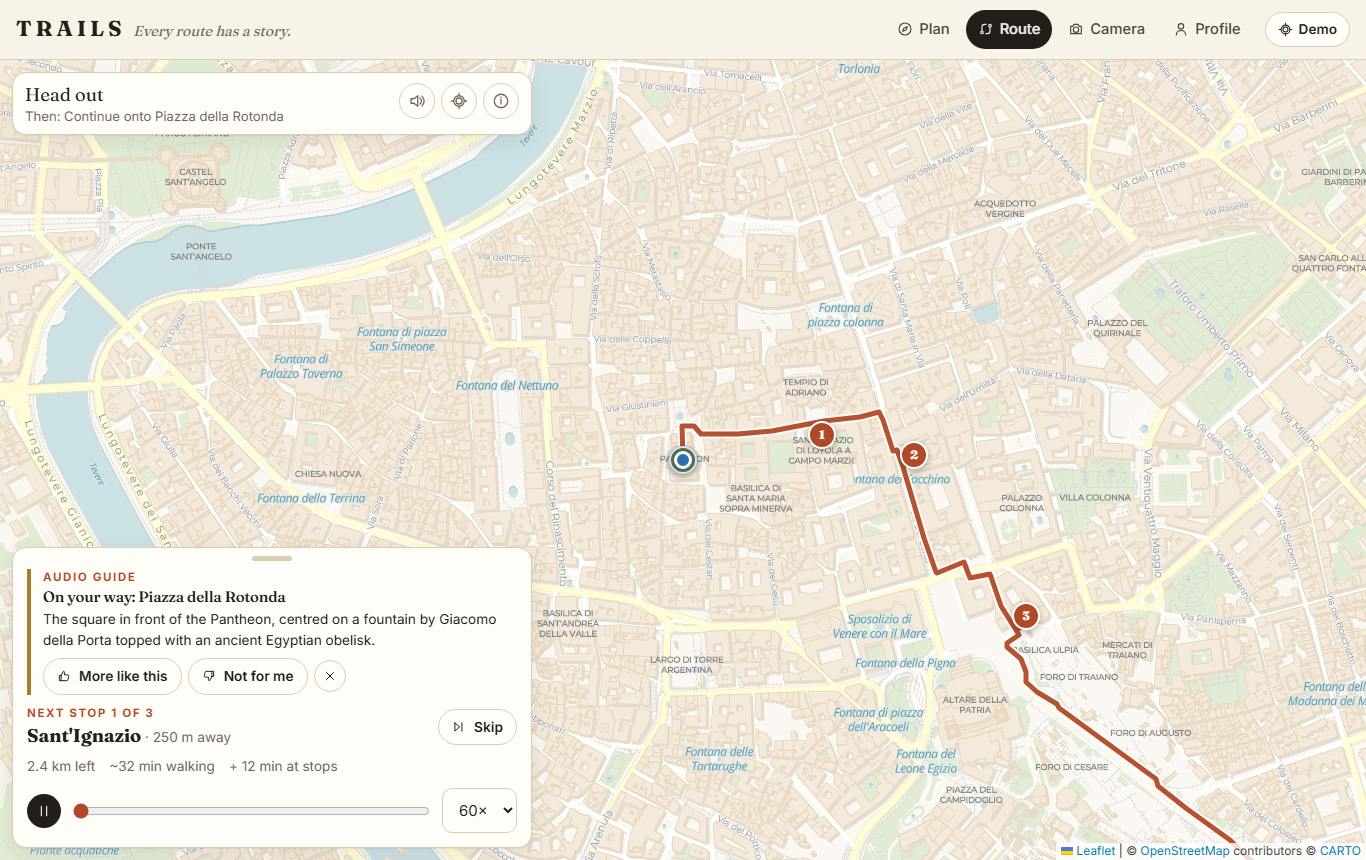
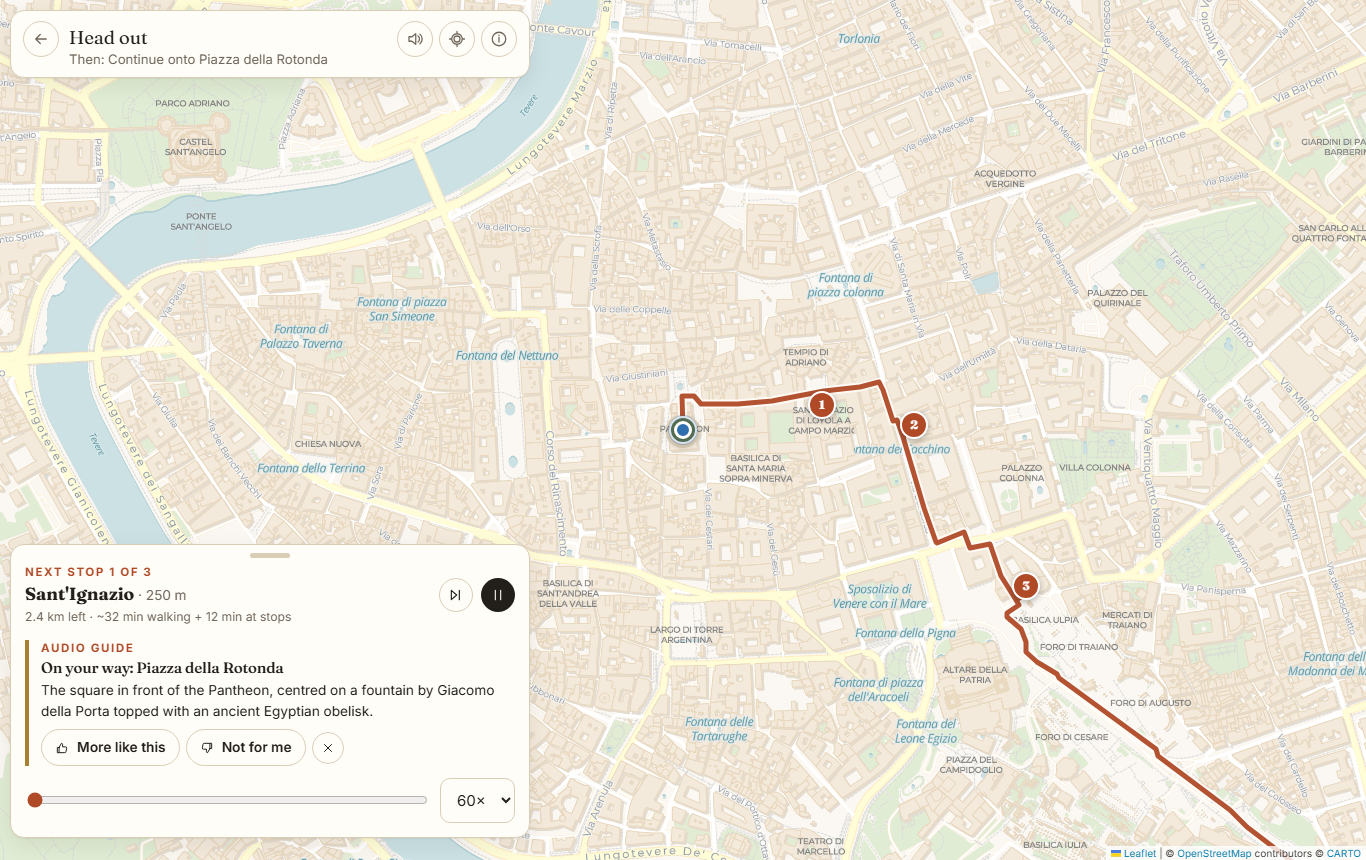
Walk screen: full-screen map and a bottom sheet that follows your finger
- the sheet now drags with the finger and snaps open or closed (distance
  or a quick flick), with an eased animation; a tap on the handle or the
  summary toggles it; play/pause and skip stay in the one-line summary
- the walk screen is full screen like a maps app: no TRAILS header and
  no tab bar, nothing scrolls; a back button returns to the route
- map attribution stays visible under the sheet
- tested in iPhone 13 and Pixel 7 viewports with emulated touch (drag
  down, drag up, tap, back); smoke test passes; screenshots refreshed

diff --git a/src/screens/Navigate.tsx b/src/screens/Navigate.tsx
@@ -1,4 +1,4 @@
-import { useEffect, useMemo, useRef, useState, type TouchEvent } from 'react'
+import { useEffect, useLayoutEffect, useMemo, useRef, useState, type PointerEvent } from 'react'
 import { Icon } from '../components/Icon'
 import { MapView } from '../components/MapView'
 import { PLACE_BY_ID } from '../lib/data'
@@ -27,10 +27,23 @@ export function Navigate() {
   const [told, setTold] = useState<ReadonlySet<string>>(new Set())
   const [cue, setCue] = useState<Cue | null>(null)
   const [rated, setRated] = useState<Record<string, 'like' | 'dislike'>>({})
-  // bottom sheet: swipe down to see the map, swipe up (or tap the handle) for details
+  // bottom sheet, like a maps app: drag it down to see the map, drag it up (or tap) for details
   const [sheetOpen, setSheetOpen] = useState(true)
   const [showInfo, setShowInfo] = useState(false)
-  const swipeY = useRef<number | null>(null)
+  const [drag, setDrag] = useState<number | null>(null)
+  const [collapseBy, setCollapseBy] = useState(0)
+  const dragStart = useRef<{ y: number; t: number } | null>(null)
+  const sheetRef = useRef<HTMLDivElement>(null)
+  const peekRef = useRef<HTMLDivElement>(null)
+  useLayoutEffect(() => {
+    const sheet = sheetRef.current, peek = peekRef.current
+    if (!sheet || !peek) return
+    const measure = () => setCollapseBy(Math.max(0, sheet.offsetHeight - (peek.offsetTop + peek.offsetHeight + 12)))
+    measure()
+    const ro = new ResizeObserver(measure)
+    ro.observe(sheet)
+    return () => ro.disconnect()
+  }, [plan])
 
   const geom = useMemo(() => plan?.route.geometry ?? [], [plan])
   const total = useMemo(() => pathLength(geom), [geom])
@@ -114,16 +127,26 @@ export function Navigate() {
   const remainingVisits = plan.stops.slice(Math.max(0, legIdx)).reduce((a, s) => a + s.visitMin, 0)
 
   const open = sheetOpen || !!atStop
-  // touch events, not pointer events: a vertical pan would cancel the pointer stream on phones
-  const onSwipeStart = (e: TouchEvent) => { swipeY.current = e.touches[0]?.clientY ?? null }
-  const onSwipeEnd = (e: TouchEvent) => {
-    const y = e.changedTouches[0]?.clientY
-    if (swipeY.current === null || y === undefined) return
-    const dy = y - swipeY.current
-    swipeY.current = null
-    const body = e.currentTarget as HTMLElement
-    if (dy > 40 && body.scrollTop <= 0) setSheetOpen(false)
-    else if (dy < -40) setSheetOpen(true)
+  // collapsed: slide the sheet down until only the handle and the one-line summary stay visible
+  const base = open ? 0 : collapseBy
+  const shift = drag === null ? base : Math.min(collapseBy, Math.max(0, base + drag))
+  const onDragStart = (e: PointerEvent) => {
+    if ((e.target as HTMLElement).closest('button:not(.nav-handle), select, input, a')) return
+    dragStart.current = { y: e.clientY, t: performance.now() }
+    e.currentTarget.setPointerCapture(e.pointerId)
+    setDrag(0)
+  }
+  const onDragMove = (e: PointerEvent) => { if (dragStart.current) setDrag(e.clientY - dragStart.current.y) }
+  const onDragEnd = (e: PointerEvent) => {
+    const s = dragStart.current
+    dragStart.current = null
+    setDrag(null)
+    if (!s) return
+    const dy = e.clientY - s.y
+    const v = dy / Math.max(1, performance.now() - s.t) // px per ms; a flick counts even if short
+    if (Math.abs(dy) < 6) setSheetOpen(!open) // a tap toggles
+    else if (dy > collapseBy / 3 || v > 0.4) setSheetOpen(false)
+    else if (dy < -collapseBy / 3 || v < -0.4) setSheetOpen(true)
   }
   const playButton = useSim && (
     <button className="btn btn-dark btn-icon" onClick={() => setPlaying(!playing)} aria-label={playing ? 'Pause simulated walk' : 'Play simulated walk'}>
@@ -132,7 +155,7 @@ export function Navigate() {
   )
 
   return (
-    <div style={{ position: 'relative', height: 'calc(100vh - var(--header-h))' }}>
+    <div className="nav-screen">
       <MapView route={{ geometry: geom, quality: plan.route.quality }}
         stops={plan.stops.map((s, i) => ({ place: s.place, n: i + 1 }))}
         start={plan.request.start} end={plan.request.end} me={pos} follow={pos}
@@ -140,6 +163,9 @@ export function Navigate() {
 
       <div className="nav-card card" role="status" aria-live="polite">
         <div className="nav-top">
+          <button className="nav-tool" aria-label="Back to the route" title="Back to the route" onClick={() => go('/route')}>
+            <Icon name="back" size={18} />
+          </button>
           <div className="nav-instr">
             {remaining < 15 ? `You have arrived at ${plan.request.end.label}.` : maneuver?.instruction ?? 'Follow the highlighted route'}
             {remaining >= 15 && nextManeuver && <div className="small muted nav-then">Then: {nextManeuver.instruction}</div>}
@@ -152,9 +178,9 @@ export function Navigate() {
                 <Icon name="sound" size={18} />
               </button>
             )}
-            <button className="nav-tool" aria-pressed={!useSim} disabled={!gpsAllowed && demo}
+            <button className="nav-tool" aria-pressed={!useSim} disabled={demo}
               aria-label={useSim ? 'Simulated location: switch to GPS' : 'GPS location: switch to simulated walk'}
-              title={useSim ? 'Simulated location (tap for GPS)' : 'GPS location (tap to simulate)'}
+              title={demo ? 'Demo mode is on: location is simulated' : useSim ? 'Simulated location (tap for GPS)' : 'GPS location (tap to simulate)'}
               onClick={() => {
                 setPlaying(false)
                 if (!gpsAllowed) { setProfile({ ...profile, locationConsent: true }); setSimOverride(false) }
@@ -181,84 +207,67 @@ export function Navigate() {
         {gpsErr && !useSim && <p className="notice notice-danger small nav-note">{gpsErr} Tap the target button to simulate the walk.</p>}
       </div>
 
-      <div className={`nav-bottom card${open ? '' : ' nav-collapsed'}`}>
-        <button className="nav-handle" aria-label={open ? 'Hide details' : 'Show details'} aria-expanded={open}
-          onTouchStart={onSwipeStart} onTouchEnd={onSwipeEnd} onClick={() => setSheetOpen(!open)}>
-          <span />
-        </button>
-        <div className="nav-sheet-body" onTouchStart={onSwipeStart} onTouchEnd={onSwipeEnd}>
-          {!open ? (
-            <div className="row spread" style={{ gap: 10 }}>
-              <div style={{ minWidth: 0 }} onClick={() => setSheetOpen(true)}>
-                <div className="nav-oneline"><strong>{nextStop ? nextStop.place.name : plan.request.end.label}</strong>
-                  {distToTarget !== null && <span className="small muted"> · {formatDistance(distToTarget)}</span>}</div>
-                <div className="tiny muted nav-oneline">{cue ? `${storyForPlan && cue.kind === 'stop' ? 'Your story' : 'Audio guide'}: ${cue.title}` : `${formatDistance(remaining)} left · ~${formatMinutes(remaining / mps / 60)}`}</div>
+      <div ref={sheetRef} className={`nav-bottom card${drag === null ? '' : ' dragging'}`} style={{ transform: `translateY(${shift}px)` }}>
+        <div className="nav-grab" onPointerDown={onDragStart} onPointerMove={onDragMove} onPointerUp={onDragEnd} onPointerCancel={onDragEnd}>
+          <button className="nav-handle" aria-label={open ? 'Hide details' : 'Show details'} aria-expanded={open}
+            onClick={(e) => { if (e.detail === 0) setSheetOpen(!open) /* keyboard; pointer taps are handled by the drag */ }}>
+            <span />
+          </button>
+          <div ref={peekRef} className="nav-peek">
+            <div style={{ minWidth: 0, flex: 1 }}>
+              <p className="eyebrow nav-oneline" style={{ margin: 0 }}>{atStop ? `You have reached stop ${legIdx + 1}` : nextStop ? `Next stop ${legIdx + 1} of ${plan.stops.length}` : 'Destination'}</p>
+              <div className="nav-oneline"><strong className="nav-stopname">{nextStop ? nextStop.place.name : plan.request.end.label}</strong>
+                {distToTarget !== null && <span className="small muted"> · {formatDistance(distToTarget)}</span>}</div>
+              <div className="tiny muted nav-oneline">
+                {!open && cue ? `${storyForPlan && cue.kind === 'stop' ? 'Your story' : 'Audio guide'}: ${cue.title}`
+                  : `${formatDistance(remaining)} left · ~${formatMinutes(remaining / mps / 60)} walking${remainingVisits > 0 ? ` + ${formatMinutes(remainingVisits)} at stops` : ''}`}
               </div>
-              {playButton}
             </div>
-          ) : (
-            <>
-              {cue && (
-                <div className="guide-card fade-in" aria-live="polite">
-                  <p className="eyebrow" style={{ margin: 0 }}>{storyForPlan && cue.kind === 'stop' ? 'Your story' : 'Audio guide'}</p>
-                  <h4>{cue.title}</h4>
-                  <p className="small">{cue.text}</p>
-                  <div className="row wrap" style={{ gap: 6 }}>
-                    <button className="btn btn-ghost btn-sm" aria-pressed={rated[cue.placeId] === 'like'} disabled={!!rated[cue.placeId]}
-                      onClick={() => { signal(cue.placeId, 'like'); setRated({ ...rated, [cue.placeId]: 'like' }) }}><Icon name="up" size={14} /> More like this</button>
-                    <button className="btn btn-ghost btn-sm" aria-pressed={rated[cue.placeId] === 'dislike'} disabled={!!rated[cue.placeId]}
-                      onClick={() => { signal(cue.placeId, 'dislike'); setRated({ ...rated, [cue.placeId]: 'dislike' }) }}><Icon name="down" size={14} /> Not for me</button>
-                    <button className="btn btn-ghost btn-sm btn-icon" aria-label="Close" onClick={() => { if (canSpeak) window.speechSynthesis.cancel(); setCue(null) }}><Icon name="x" size={14} /></button>
-                  </div>
-                  {rated[cue.placeId] && <p className="tiny muted" style={{ margin: '6px 0 0' }}>Saved to your taste profile. Your next plan will use it.</p>}
-                </div>
-              )}
-              {atStop && nextStop ? (
-                <div className="fade-in">
-                  <p className="eyebrow">You have reached stop {legIdx + 1}</p>
-                  <h3>{nextStop.place.name}</h3>
-                  <p className="small">{nextStop.place.summary}</p>
-                  <div className="row wrap">
-                    <button className="btn btn-primary btn-sm" onClick={() => { signal(nextStop.place.id, 'visited'); setVisited([...visited, nextStop.place.id]) }}>
-                      <Icon name="check" size={15} /> Mark visited
-                    </button>
-                    <a className="btn btn-ghost btn-sm" href={`#/place/${nextStop.place.id}`} onClick={() => signal(nextStop.place.id, 'open_details')}>Learn more</a>
-                  </div>
-                </div>
-              ) : (
-                <>
-                  <div className="row spread">
-                    <div>
-                      <p className="eyebrow" style={{ margin: 0 }}>{nextStop ? `Next stop ${legIdx + 1} of ${plan.stops.length}` : 'Destination'}</p>
-                      <strong style={{ fontFamily: 'var(--serif)', fontSize: '1.15rem' }}>{nextStop ? nextStop.place.name : plan.request.end.label}</strong>
-                      {distToTarget !== null && <span className="small muted"> · {formatDistance(distToTarget)} away</span>}
-                    </div>
-                    {nextStop && (
-                      <button className="btn btn-ghost btn-sm" onClick={() => {
-                        signal(nextStop.place.id, 'skip')
-                        const end = legEnds[legIdx] ?? total
-                        if (useSim) setSimDist(end + 1)
-                      }}><Icon name="skip" size={14} /> Skip</button>
-                    )}
-                  </div>
-                  <div className="row wrap small muted" style={{ gap: 14, marginTop: 6 }}>
-                    <span>{formatDistance(remaining)} left</span>
-                    <span>~{formatMinutes(remaining / mps / 60)} walking</span>
-                    {remainingVisits > 0 && <span>+ {formatMinutes(remainingVisits)} at stops</span>}
-                  </div>
-                </>
-              )}
-              {useSim && (
-                <div className="row" style={{ marginTop: 12 }}>
-                  {playButton}
-                  <input type="range" min={0} max={Math.round(total)} value={Math.round(simDist)} aria-label="Simulated position along the route"
-                    onTouchStart={(e) => e.stopPropagation()} onTouchEnd={(e) => e.stopPropagation()} onChange={(e) => setSimDist(+e.target.value)} />
-                  <select value={speedup} onChange={(e) => setSpeedup(+e.target.value)} aria-label="Simulation speed" style={{ width: 84 }}>
-                    {[5, 20, 60].map((s) => <option key={s} value={s}>{s}×</option>)}
-                  </select>
-                </div>
-              )}
-            </>
+            {nextStop && !atStop && (
+              <button className="btn btn-ghost btn-icon" aria-label="Skip this stop" title="Skip this stop" onClick={() => {
+                signal(nextStop.place.id, 'skip')
+                const end = legEnds[legIdx] ?? total
+                if (useSim) setSimDist(end + 1)
+              }}><Icon name="skip" size={16} /></button>
+            )}
+            {playButton}
+          </div>
+        </div>
+        <div className={`nav-sheet-body${!open && drag === null ? ' nav-hidden' : ''}`} aria-hidden={!open && drag === null}>
+          {atStop && nextStop && (
+            <div className="fade-in nav-section">
+              <p className="small">{nextStop.place.summary}</p>
+              <div className="row wrap">
+                <button className="btn btn-primary btn-sm" onClick={() => { signal(nextStop.place.id, 'visited'); setVisited([...visited, nextStop.place.id]) }}>
+                  <Icon name="check" size={15} /> Mark visited
+                </button>
+                <a className="btn btn-ghost btn-sm" href={`#/place/${nextStop.place.id}`} onClick={() => signal(nextStop.place.id, 'open_details')}>Learn more</a>
+              </div>
+            </div>
+          )}
+          {cue && (
+            <div className="guide-card fade-in nav-section" aria-live="polite">
+              <p className="eyebrow" style={{ margin: 0 }}>{storyForPlan && cue.kind === 'stop' ? 'Your story' : 'Audio guide'}</p>
+              <h4>{cue.title}</h4>
+              <p className="small">{cue.text}</p>
+              <div className="row wrap" style={{ gap: 6 }}>
+                <button className="btn btn-ghost btn-sm" aria-pressed={rated[cue.placeId] === 'like'} disabled={!!rated[cue.placeId]}
+                  onClick={() => { signal(cue.placeId, 'like'); setRated({ ...rated, [cue.placeId]: 'like' }) }}><Icon name="up" size={14} /> More like this</button>
+                <button className="btn btn-ghost btn-sm" aria-pressed={rated[cue.placeId] === 'dislike'} disabled={!!rated[cue.placeId]}
+                  onClick={() => { signal(cue.placeId, 'dislike'); setRated({ ...rated, [cue.placeId]: 'dislike' }) }}><Icon name="down" size={14} /> Not for me</button>
+                <button className="btn btn-ghost btn-sm btn-icon" aria-label="Close" onClick={() => { if (canSpeak) window.speechSynthesis.cancel(); setCue(null) }}><Icon name="x" size={14} /></button>
+              </div>
+              {rated[cue.placeId] && <p className="tiny muted" style={{ margin: '6px 0 0' }}>Saved to your taste profile. Your next plan will use it.</p>}
+            </div>
+          )}
+          {useSim && (
+            <div className="row nav-section">
+              <input type="range" min={0} max={Math.round(total)} value={Math.round(simDist)} aria-label="Simulated position along the route"
+                onChange={(e) => setSimDist(+e.target.value)} />
+              <select value={speedup} onChange={(e) => setSpeedup(+e.target.value)} aria-label="Simulation speed" style={{ width: 84 }}>
+                {[5, 20, 60].map((s) => <option key={s} value={s}>{s}×</option>)}
+              </select>
+            </div>
           )}
         </div>
       </div>

diff --git a/src/styles.css b/src/styles.css
@@ -315,22 +315,31 @@ input[type='range'] { width: 100%; accent-color: var(--terracotta); }
 .guide-card h4 { margin: 2px 0 4px; font-family: var(--serif); }
 .guide-card p { margin: 0 0 8px; }
 
-/* navigate: compact top card with icon tools, bottom sheet that swipes down to show the map */
-.nav-card { padding: 10px 12px; }
+/* navigate: full-screen map, compact top card with icon tools, draggable bottom sheet */
+.nav-screen { position: fixed; inset: 0; z-index: 1100; overflow: hidden; overscroll-behavior: none; }
+.nav-card { padding: 10px 12px; top: calc(10px + env(safe-area-inset-top)); left: 10px; right: 10px; }
 .nav-top { display: flex; align-items: flex-start; gap: 10px; }
-.nav-top .nav-instr { flex: 1; min-width: 0; font-size: 1.15rem; }
+.nav-top .nav-instr { flex: 1; min-width: 0; font-size: 1.15rem; padding-top: 5px; }
 .nav-then { font-family: var(--sans); font-size: 0.82rem; margin-top: 2px; }
 .nav-tools { display: flex; gap: 6px; flex-shrink: 0; }
 .nav-tool { width: 36px; height: 36px; border-radius: 50%; border: 1px solid var(--line); background: transparent; color: var(--muted);
-  display: inline-flex; align-items: center; justify-content: center; cursor: pointer; padding: 0; }
+  display: inline-flex; align-items: center; justify-content: center; cursor: pointer; padding: 0; flex-shrink: 0; }
 .nav-tool[aria-pressed='true'] { background: var(--ink); border-color: var(--ink); color: var(--ivory); }
 .nav-tool:disabled { opacity: 0.4; cursor: not-allowed; }
 .nav-info { margin-top: 8px; padding-top: 8px; border-top: 1px solid var(--line); }
 .nav-info p { margin: 0 0 4px; }
 .nav-note { margin: 8px 0 0; }
-.nav-bottom { padding: 0 14px 14px; max-height: 55vh; display: flex; flex-direction: column; transition: max-height 0.25s ease; }
-.nav-collapsed { padding-bottom: 10px; }
-.nav-handle { display: flex; justify-content: center; width: 100%; padding: 8px 0 8px; border: 0; background: none; cursor: pointer; touch-action: none; }
+.nav-screen .nav-bottom { left: 10px; right: 10px; bottom: calc(22px + env(safe-area-inset-bottom)); padding: 0 14px 14px;
+  max-height: 60%; display: flex; flex-direction: column; transition: transform 0.3s cubic-bezier(0.2, 0.8, 0.2, 1); will-change: transform; }
+.nav-bottom.dragging { transition: none; }
+.nav-grab { touch-action: none; cursor: grab; user-select: none; }
+.nav-handle { display: flex; justify-content: center; width: 100%; padding: 8px 0 6px; border: 0; background: none; cursor: grab; }
 .nav-handle span { width: 40px; height: 5px; border-radius: 3px; background: var(--line); }
-.nav-sheet-body { overflow-y: auto; min-height: 0; }
+.nav-peek { display: flex; align-items: center; gap: 8px; padding-bottom: 2px; }
+.nav-stopname { font-family: var(--serif); font-size: 1.1rem; }
+.nav-sheet-body { overflow-y: auto; min-height: 0; overscroll-behavior: contain; transition: opacity 0.2s; }
+.nav-hidden { opacity: 0; pointer-events: none; }
+/* the map attribution stays readable in the strip under the sheet */
+.nav-screen .leaflet-control-attribution { font-size: 10px; }
+.nav-section { margin-top: 12px; }
 .nav-oneline { white-space: nowrap; overflow: hidden; text-overflow: ellipsis; }

diff --git a/src/App.tsx b/src/App.tsx
@@ -35,11 +35,12 @@ export default function App() {
     default: screen = <Home />
   }
   const full = top === 'route' || top === 'navigate'
+  const immersive = top === 'navigate' // the walk screen is a full-screen map with its own back button
 
   return (
     <div className="app">
       <a href="#main" className="sr-only">Skip to content</a>
-      <header className="header">
+      {!immersive && <header className="header">
         <a className="brand" href="#/" aria-label="TRAILS home">
           <span className="brand-mark">TRAILS</span>
           <span className="brand-tag">Every route has a story.</span>
@@ -60,20 +61,20 @@ export default function App() {
             {DEMO_SCENARIOS.map((s) => <option key={s.id} value={s.id}>{s.label}</option>)}
           </select>
         )}
-      </header>
+      </header>}
       <main id="main" className="main">{screen}</main>
       {!full && (
         <footer className="footer">
           TRAILS · Rome dataset v{DATASET_VERSION} · Map data © OpenStreetMap contributors · <a href="#/about">Sources, models & limitations</a>
         </footer>
       )}
-      <nav className="tabbar" aria-label="Main">
+      {!immersive && <nav className="tabbar" aria-label="Main">
         {TABS.map((t) => (
           <a key={t.path} href={`#/${t.path}`} aria-current={current === t.path ? 'page' : undefined}>
             <Icon name={t.icon} size={20} /> {t.label}
           </a>
         ))}
-      </nav>
+      </nav>}
     </div>
   )
 }
